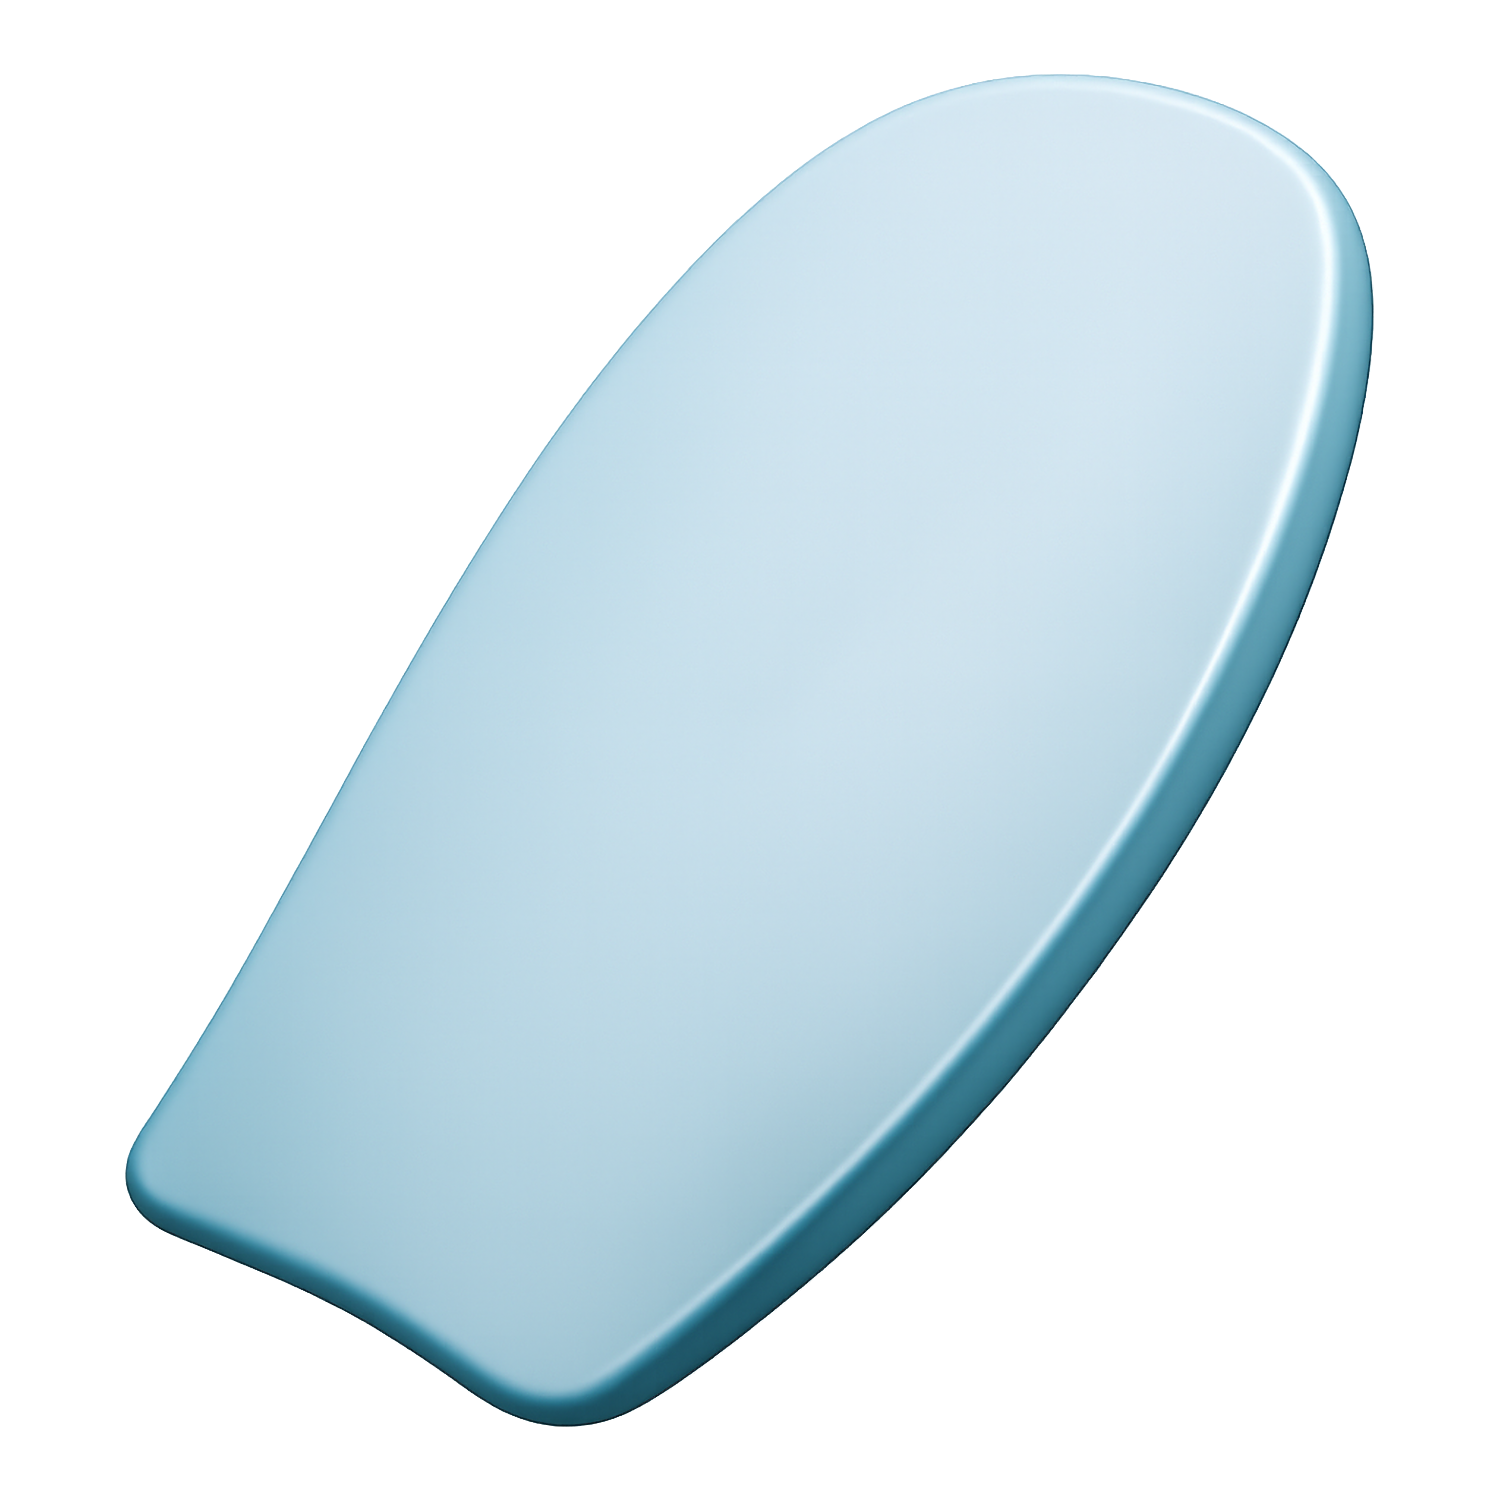
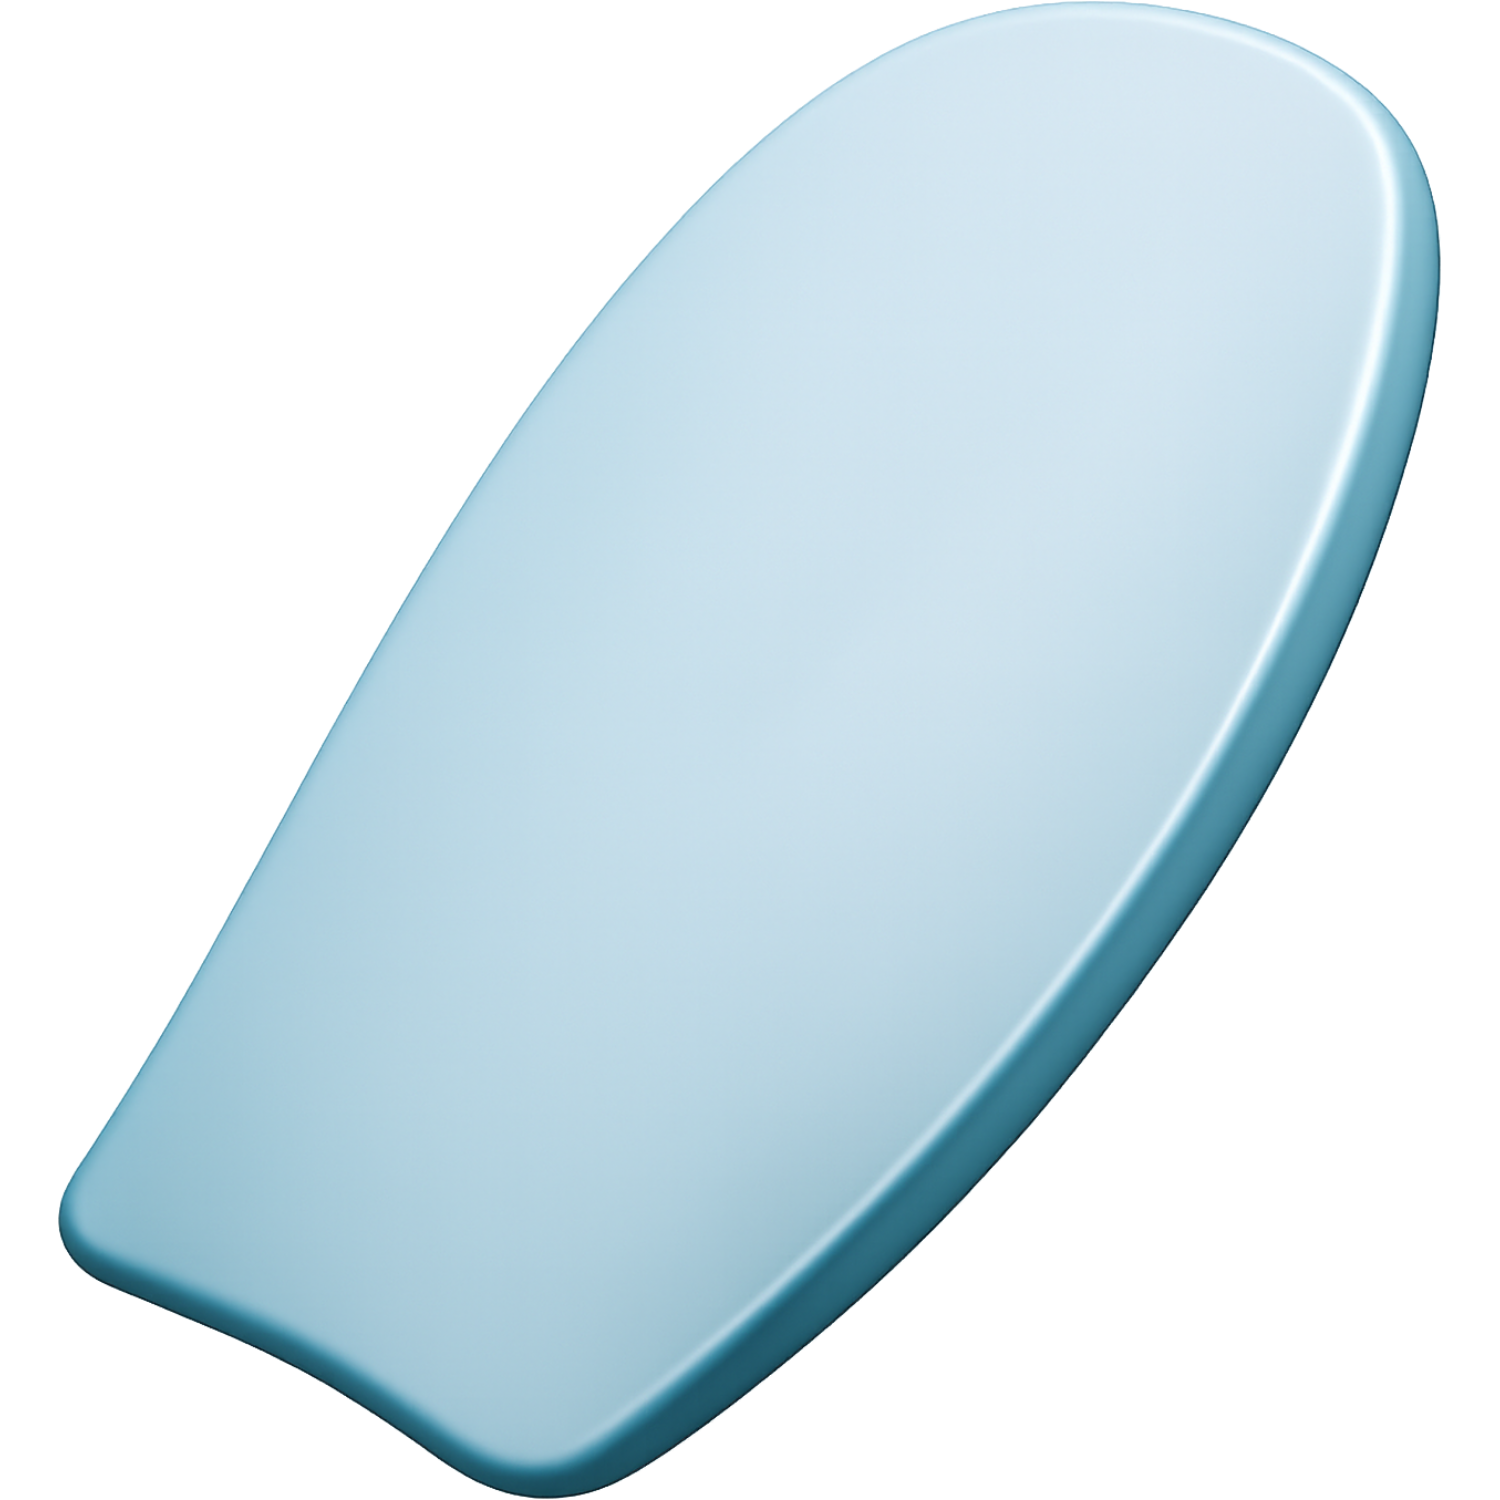
Update README formatting and thumbnail image
Improved formatting in the README example command and updated the thumbnail image in assets/thumbnail.png.

Changed region(s): [[0.0307, 0.0, 0.9813, 1.0]]

diff --git a/README.md b/README.md
@@ -14,7 +14,7 @@ Maintaining consistency across diverse code assistant configuration files presen
 npm install -g bodyboard
 ```
 
-Generate adapter outputs for all supported formats.
+Generate adapter outputs for all supported formats:
 
 ```bash
 bodyboard create all
